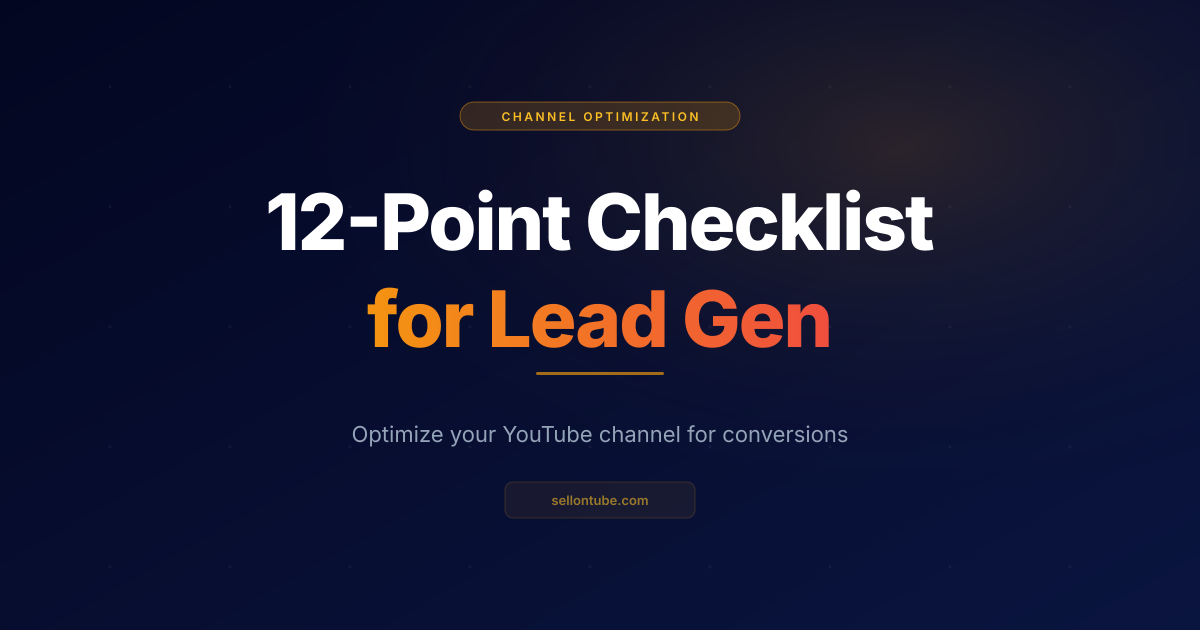
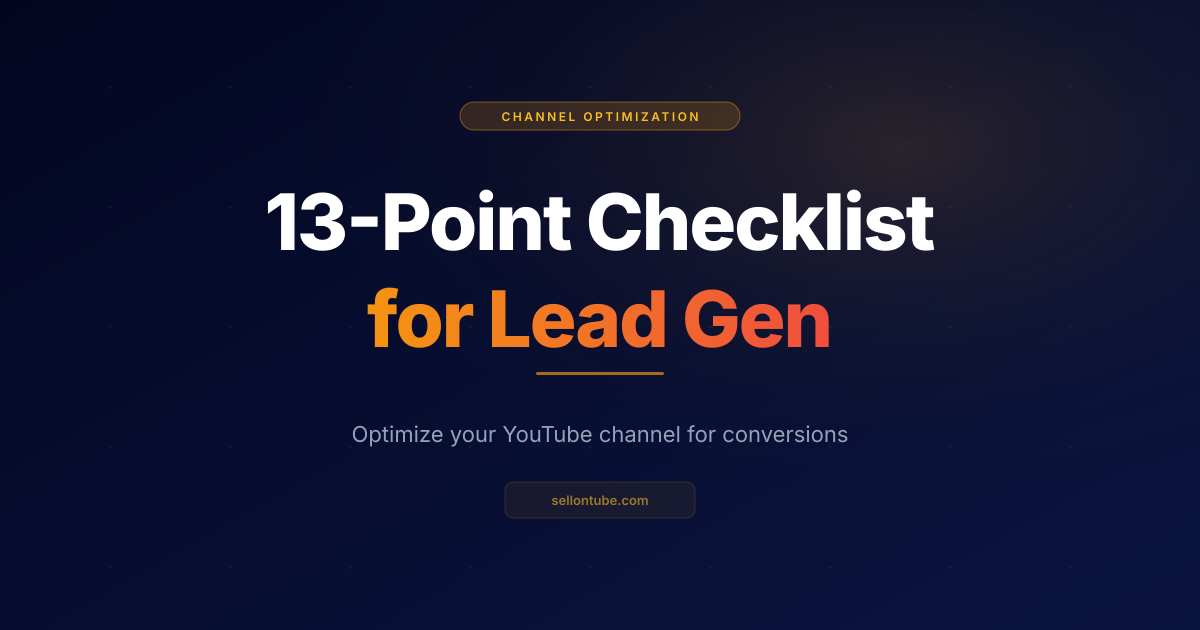
fix: show post dates in IST, harden generate-tags JSON, correct 13-point image
- Post bylines showed one day early: toIST() normalises dates to IST
  midnight, but the formatter printed them in UTC. Format in Asia/Kolkata.
- generate-tags: add responseSchema and thinkingBudget 0, and return 503
  with finishReason on unparseable output instead of a 500 (daily health
  check saw truncated JSON on 2026-09-30 and 2026-10-02).
- youtube-channel-optimization-checklist feature image said "12-Point";
  the post has 13 points.
- Log four lessons from the channel-audit post session.

Changed region(s): [[0.5242, 0.3016, 0.7708, 0.3921], [0.2158, 0.3317, 0.4625, 0.3921]]

diff --git a/netlify/functions/generate-tags.ts b/netlify/functions/generate-tags.ts
@@ -3,6 +3,17 @@ import { getTranscript, toPlainText } from './lib/transcript.js';
 const GEMINI_API_URL =
   'https://generativelanguage.googleapis.com/v1beta/models/gemini-flash-latest:generateContent';
 
+const TAGS_SCHEMA = {
+  type: 'OBJECT',
+  properties: {
+    primaryKeyword: { type: 'STRING' },
+    suggestedTags: { type: 'ARRAY', items: { type: 'STRING' } },
+    tagStrategy: { type: 'STRING' },
+    warnings: { type: 'ARRAY', items: { type: 'STRING' } },
+  },
+  required: ['primaryKeyword', 'suggestedTags', 'tagStrategy', 'warnings'],
+};
+
 function extractVideoId(input: string): string | null {
   const trimmed = input.trim();
 
@@ -178,7 +189,15 @@ export default async (request: Request) => {
         contents: [{ parts: [{ text: buildPrompt(videoTitle, videoDescription, existingTags, transcript) }] }],
         // 4096 not 2048: thinking tokens count toward this cap, and with a transcript in the prompt
         // 2048 was exhausted before any JSON was emitted (seen 2026-09-05, JSON.parse('') -> 500).
-        generationConfig: { responseMimeType: 'application/json', temperature: 0.5, maxOutputTokens: 4096 },
+        // responseSchema + no thinking: the daily health check saw truncated JSON ("Unterminated
+        // string", 2026-09-30 and 2026-10-02); generate-script and youtube-seo-tool use the same pattern.
+        generationConfig: {
+          responseMimeType: 'application/json',
+          responseSchema: TAGS_SCHEMA,
+          temperature: 0.5,
+          maxOutputTokens: 4096,
+          thinkingConfig: { thinkingBudget: 0 },
+        },
       }),
     });
 
@@ -205,7 +224,18 @@ export default async (request: Request) => {
         { status: 503, headers }
       );
     }
-    const result = JSON.parse(raw);
+    let result;
+    try {
+      result = JSON.parse(raw);
+    } catch (parseErr) {
+      // Truncated or malformed model output is an upstream failure: 503 with the reason, never a 500.
+      const finish = geminiData?.candidates?.[0]?.finishReason ?? 'unknown';
+      console.error('Gemini returned unparseable JSON. finishReason:', finish, String(parseErr), raw.slice(0, 300));
+      return new Response(
+        JSON.stringify({ error: 'AI service returned an incomplete answer. Please try again.', detail: 'finishReason=' + finish }),
+        { status: 503, headers }
+      );
+    }
 
     if (!Array.isArray(result?.suggestedTags) || result.suggestedTags.length === 0) {
       throw new Error('Invalid response structure from Gemini');

diff --git a/src/utils/utils.ts b/src/utils/utils.ts
@@ -4,7 +4,9 @@ export const formatter: Intl.DateTimeFormat = new Intl.DateTimeFormat(I18N?.lang
   year: 'numeric',
   month: 'short',
   day: 'numeric',
-  timeZone: 'UTC',
+  // Post dates are normalised to IST midnight in src/utils/blog.ts (toIST), so format them in IST.
+  // Formatting in UTC showed every post one day early.
+  timeZone: 'Asia/Kolkata',
 });
 
 export const getFormattedDate = (date: Date): string => (date ? formatter.format(date) : '');

diff --git a/mistakes-lessons.md b/mistakes-lessons.md
@@ -293,3 +293,31 @@ Read this file at the start of work so past mistakes don't repeat.
 - **Lesson:** an escape sequence surviving into a file is an assumption, not a given, and it fails in the direction that still compiles. Non-ASCII in source is not a style question here: the control and bidi characters this project deliberately strips at runtime are exactly the ones most damaging to have sitting inside the code that strips them.
 - **Prevention rule:** after writing or editing any file that contains an escape sequence inside a string or regex literal, scan it for unexpected non-ASCII and control characters before trusting it. Read the file as UTF-8 in python and print every codepoint above 126 or below 32 other than newline and tab; expect none. Bytes are not enough on their own: also assert the behaviour, running the function against one known-positive input per range it claims to cover. When `grep` reports "Binary file ... matches" on a source file, treat it as a defect, never as noise. Inside a bash heredoc, do not rely on a doubled backslash surviving; build the character with `String.fromCharCode` or an explicit code point instead.
 - **Category:** verification
+
+### 2026-10-22 — Every blog post showed its date one day early
+- **What happened:** While shipping `/blog/youtube-channel-audit-checklist` (publishDate 2026-10-22), the rendered byline read "Oct 21". Every post had the same off-by-one: case studies, published Jul 18, displayed "Jul 17".
+- **Root cause:** `src/utils/blog.ts` `toIST()` normalises each publishDate to IST midnight, which is 18:30 UTC the previous day. `src/utils/utils.ts` then formatted that instant with `timeZone: 'UTC'`. Each half was correct alone; together they printed the day before.
+- **Lesson:** when one layer moves a date into a time zone, every layer that displays it must use the same zone. Go-live filtering was never affected, which is why nobody noticed.
+- **Prevention rule:** post-date formatting uses `Asia/Kolkata`, matching `toIST()`. After any change to date logic, compare one rendered byline in `dist/` against its frontmatter `publishDate`.
+- **Category:** render
+
+### 2026-10-22 — Linking into old posts pulls their old gate failures into scope
+- **What happened:** Adding one inbound-link sentence to each of three live posts made the post-gate hook fail them on problems that predated the edit: two SVG feature images (raster-only since 2026-10-15) and five "this post" narration lines in the case-studies post. All had to be fixed before the commit.
+- **Lesson:** any edit to an existing post, however small, re-runs the full post gate on it. A "one-sentence" inbound link can turn into an image conversion plus copy fixes.
+- **Prevention rule:** before planning inbound links into older posts, run `check_post.py` on each host first and budget for its FAILs. Rasterise legacy SVG feature images with sharp at 1200x630 (`fit: 'cover'`); the house SVGs are 1200x675, so the even crop keeps the footer.
+- **Category:** process
+
+### 2026-10-22 — generate-tags truncated JSON: fixed without a reproduction, proven with a mocked handler
+- **What happened:** The daily health check failed 3 times in 5 days on `generate-tags` with "Unterminated string in JSON". Eight direct Gemini calls with the real prompt (no transcript, to save Supadata credits) all returned valid JSON, so the fault never reproduced.
+- **Fix:** `responseSchema` plus `thinkingConfig: { thinkingBudget: 0 }` (the pattern already in generate-script and youtube-seo-tool), and an unparseable reply now returns 503 with `finishReason` instead of throwing a 500.
+- **Lesson:** a Netlify function can be tested locally without Netlify. Bundle it with the repo's esbuild (`npx esbuild <fn>.ts --bundle --platform=node --format=esm`), replace `globalThis.fetch` with a mock, and call the default export with a `Request`. That proved the truncated reply gives 503 and a valid one gives 200. Importing the `.ts` directly fails, because the functions import `./lib/*.js`.
+- **Prevention rule:** every Gemini JSON call guards `JSON.parse` and returns 503 with `finishReason`, not just an empty-text check. Re-check the health-check history 7 days after deploy; a recurrence with `finishReason` in the log now says which cause it was.
+- **Category:** verification
+
+### 2026-10-22 — Tooling traps from the channel-audit post session
+- **Plan mode stops background subagents silently.** Agents launched just before plan mode turned on stopped before their paid DataForSEO calls and reported "no analysis yet". After leaving plan mode, resume them with SendMessage; a new Agent call starts fresh.
+- **gstack browse `screenshot --clip` only captures the viewport.** For a full page, set a tall viewport (`viewport 1280x22800`) and use `screenshot --viewport`; the height caps at 16384 px.
+- **A preview server locks its worktree.** `astro preview` leaves `node` and `esbuild.exe` running from the worktree's `node_modules`, so `git worktree remove` fails with "Access denied". Stop processes whose command line contains the worktree path, then remove it.
+- **A worktree has no `.env`.** `scripts/bing-submit.mjs` fails there with "BING_WEBMASTER_API_KEY not found"; run it from the main checkout.
+- **IndexNow still returns 403 `UserForbiddedToAccessSite` (2026-10-22),** while the Bing Webmaster URL Submission API accepts the same URLs (HTTP 200, quota 100 to 96). Bing trusts the site; the IndexNow key verification is what fails.
+- **Category:** tooling
